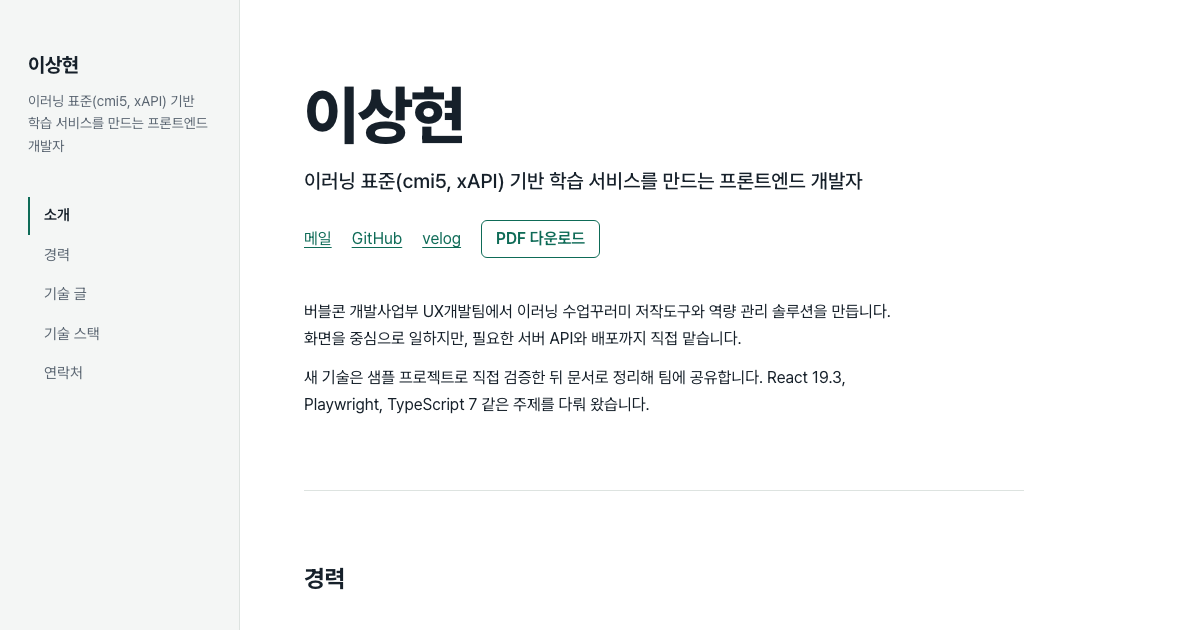
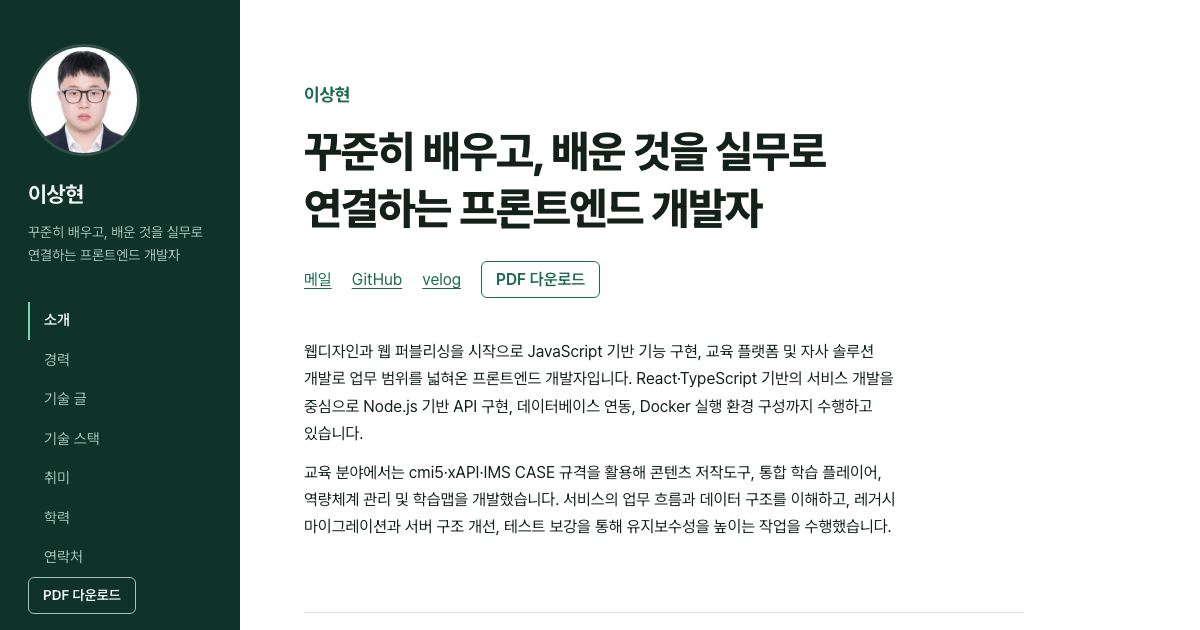
feat: 첫 화면 제목을 한 줄 소개로 바꾸고 글자 크기 조정
이름은 제목 위에 작게 두고, 긴 문장은 두 줄로 고르게 나눈다. OG 이미지도 새 첫 화면으로 갱신.

diff --git a/e2e/home.e2e.ts b/e2e/home.e2e.ts
@@ -3,11 +3,11 @@ import {expect, test} from '@playwright/test';
 import {profile} from '../src/data/profile.ts';
 import {formatPeriod} from '../src/lib/period.ts';
 
-test('첫 화면에 이름, 한 줄 소개, PDF 링크가 보인다', async ({page}) => {
+test('첫 화면 제목은 한 줄 소개이고 이름과 PDF 링크가 보인다', async ({page}) => {
   await page.goto('./');
   const main = page.getByRole('main');
-  await expect(main.getByRole('heading', {level: 1})).toHaveText(profile.name);
-  await expect(main.getByText(profile.headline)).toBeVisible();
+  await expect(main.getByRole('heading', {level: 1})).toHaveText('꾸준히 배우고, 배운 것을 실무로 연결하는 프론트엔드 개발자');
+  await expect(main.getByText(profile.name, {exact: true})).toBeVisible();
   await expect(main.getByRole('link', {name: 'PDF 다운로드'})).toHaveAttribute('href', '/portfolio/resume.pdf');
 });
 

diff --git a/src/data/profile.ts b/src/data/profile.ts
@@ -28,7 +28,7 @@ export type Profile = {
 // 경력과 연락처는 이 파일에서만 고친다. 연봉은 공개하지 않는다.
 export const profile: Profile = {
   name: '이상현',
-  headline: '이러닝 표준(cmi5, xAPI) 기반 학습 서비스를 만드는 프론트엔드 개발자',
+  headline: '꾸준히 배우고, 배운 것을 실무로 연결하는 프론트엔드 개발자',
   email: 'asoeg7315@naver.com',
   github: 'https://github.com/TUCGG',
   velog: 'https://velog.io/@lsh7315',
